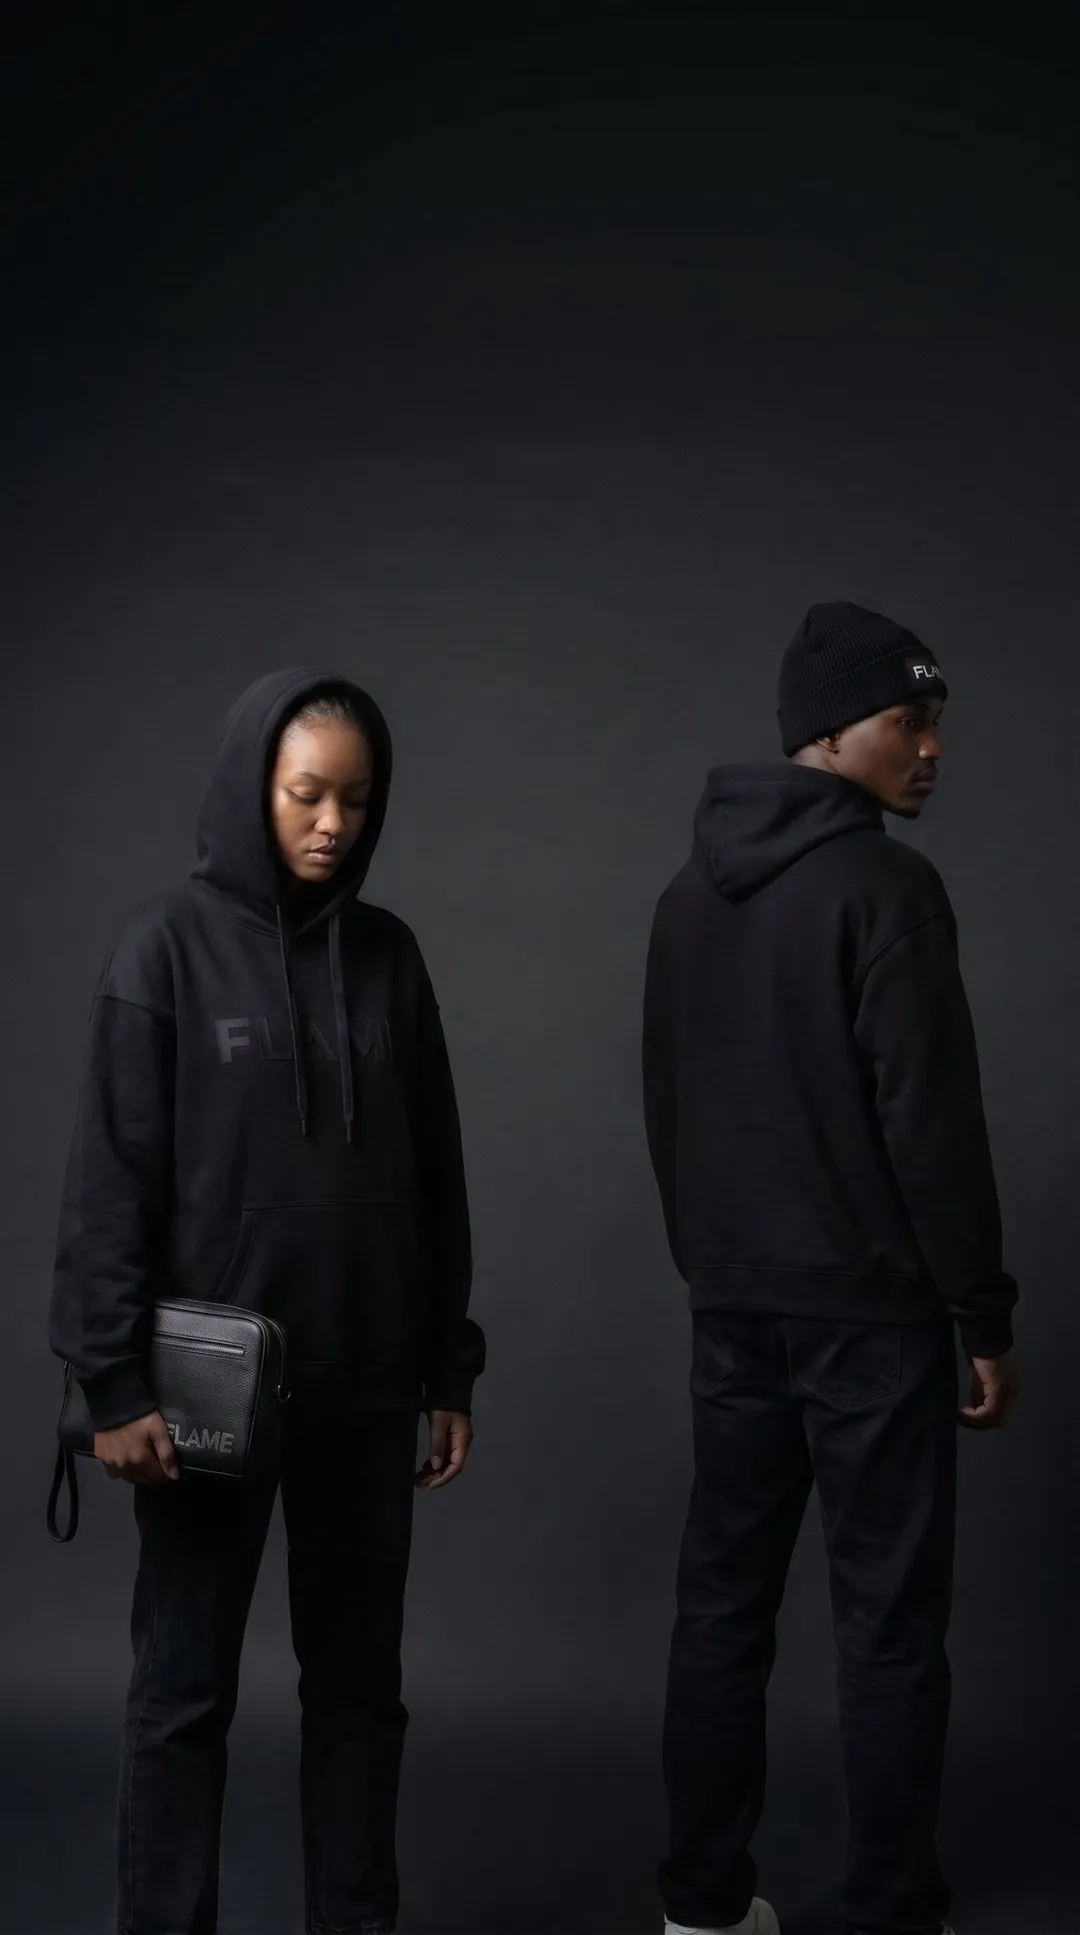
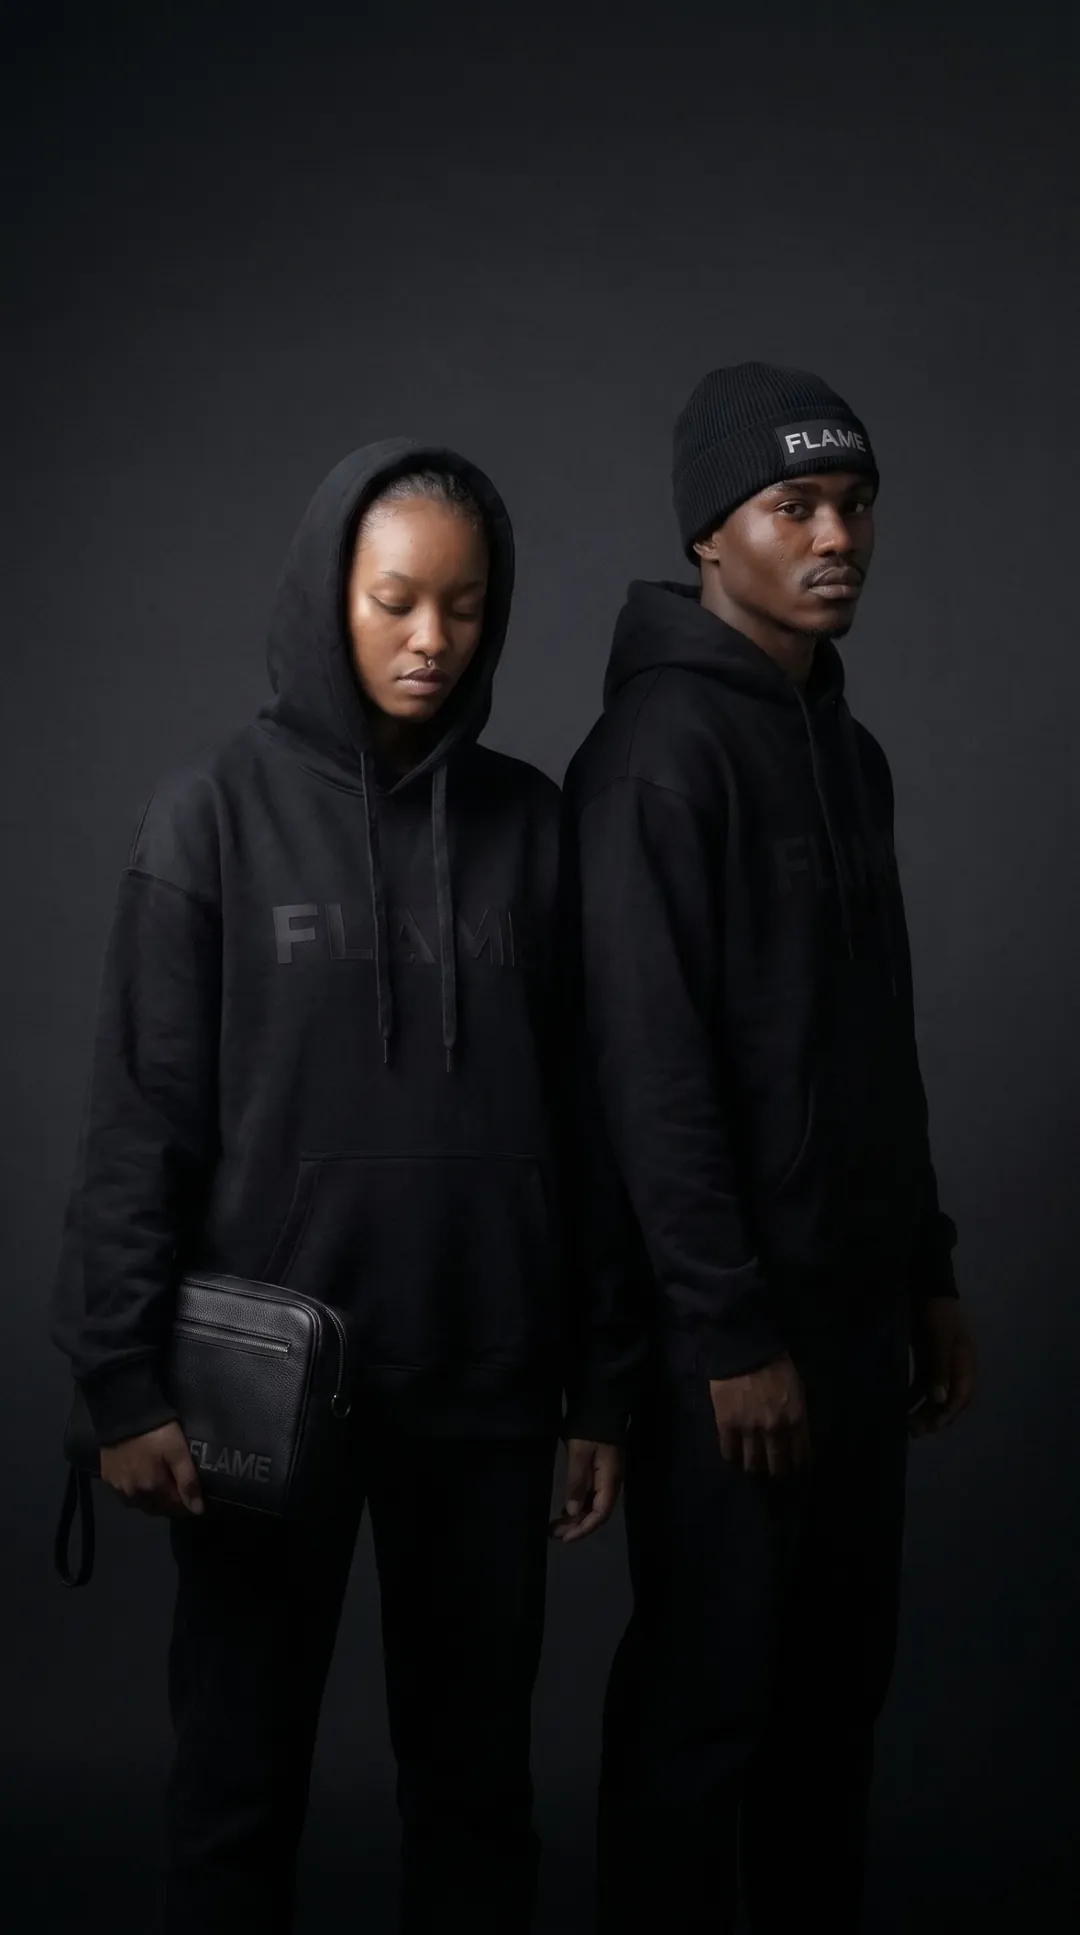
feat: new phone campaign image with the models side by side
Phone hero uses a portrait shot framed for mobile (models close
together, both faces toward camera). Lighter zoom (112% of width) and
heads placed just under the header.

Claude-Session: https://claude.ai/code/session_01AGm96KfVSY9qAyH4GSbwno

diff --git a/src/styles/pages.css b/src/styles/pages.css
@@ -59,8 +59,8 @@
   /* photo sized by width (both faces stay in frame) and lifted so the heads sit just under the header;
      the photo's lower edge fades into the black hero behind the headline and buttons */
   .hero__media img {
-    width: 135vw; max-width: none; height: auto; left: -21vw; right: auto; bottom: auto;
-    top: calc(var(--top-h) + 18px - 74.8vw);
+    width: 112vw; max-width: none; height: auto; left: -6vw; right: auto; bottom: auto;
+    top: calc(var(--top-h) + 14px - 38.9vw);
     -webkit-mask-image: linear-gradient(180deg, #000 82%, transparent 100%);
     mask-image: linear-gradient(180deg, #000 82%, transparent 100%);
   }
